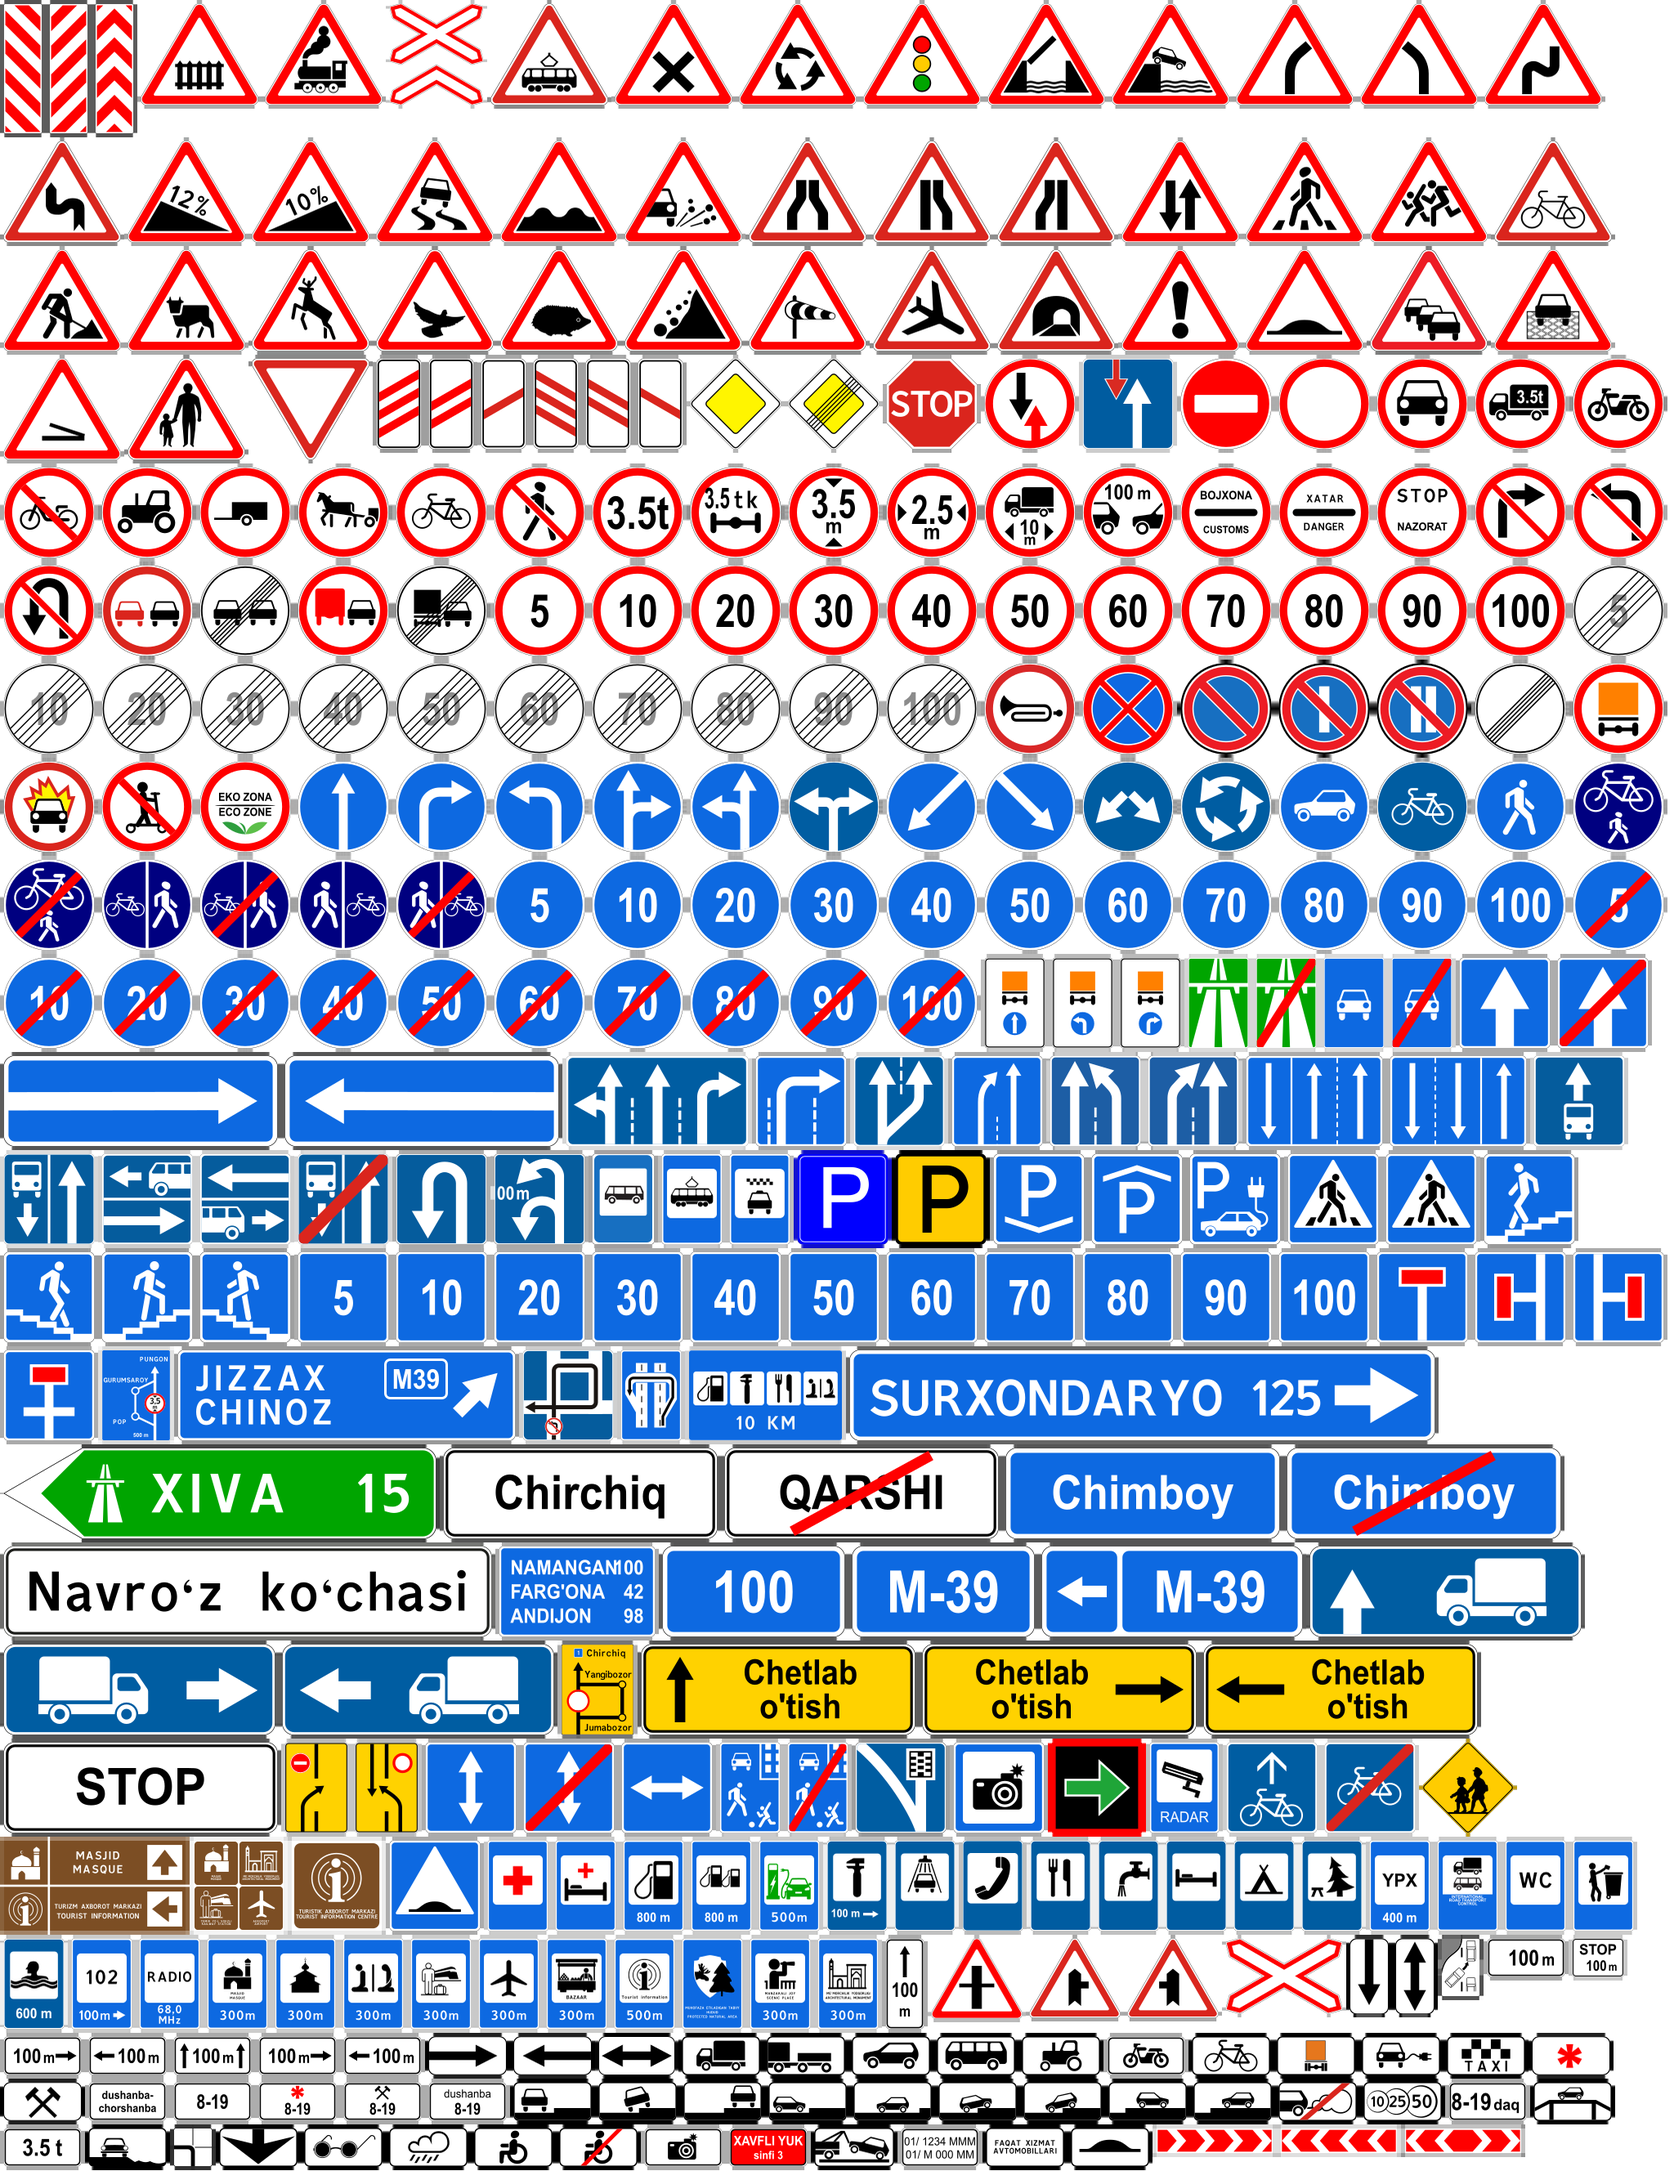
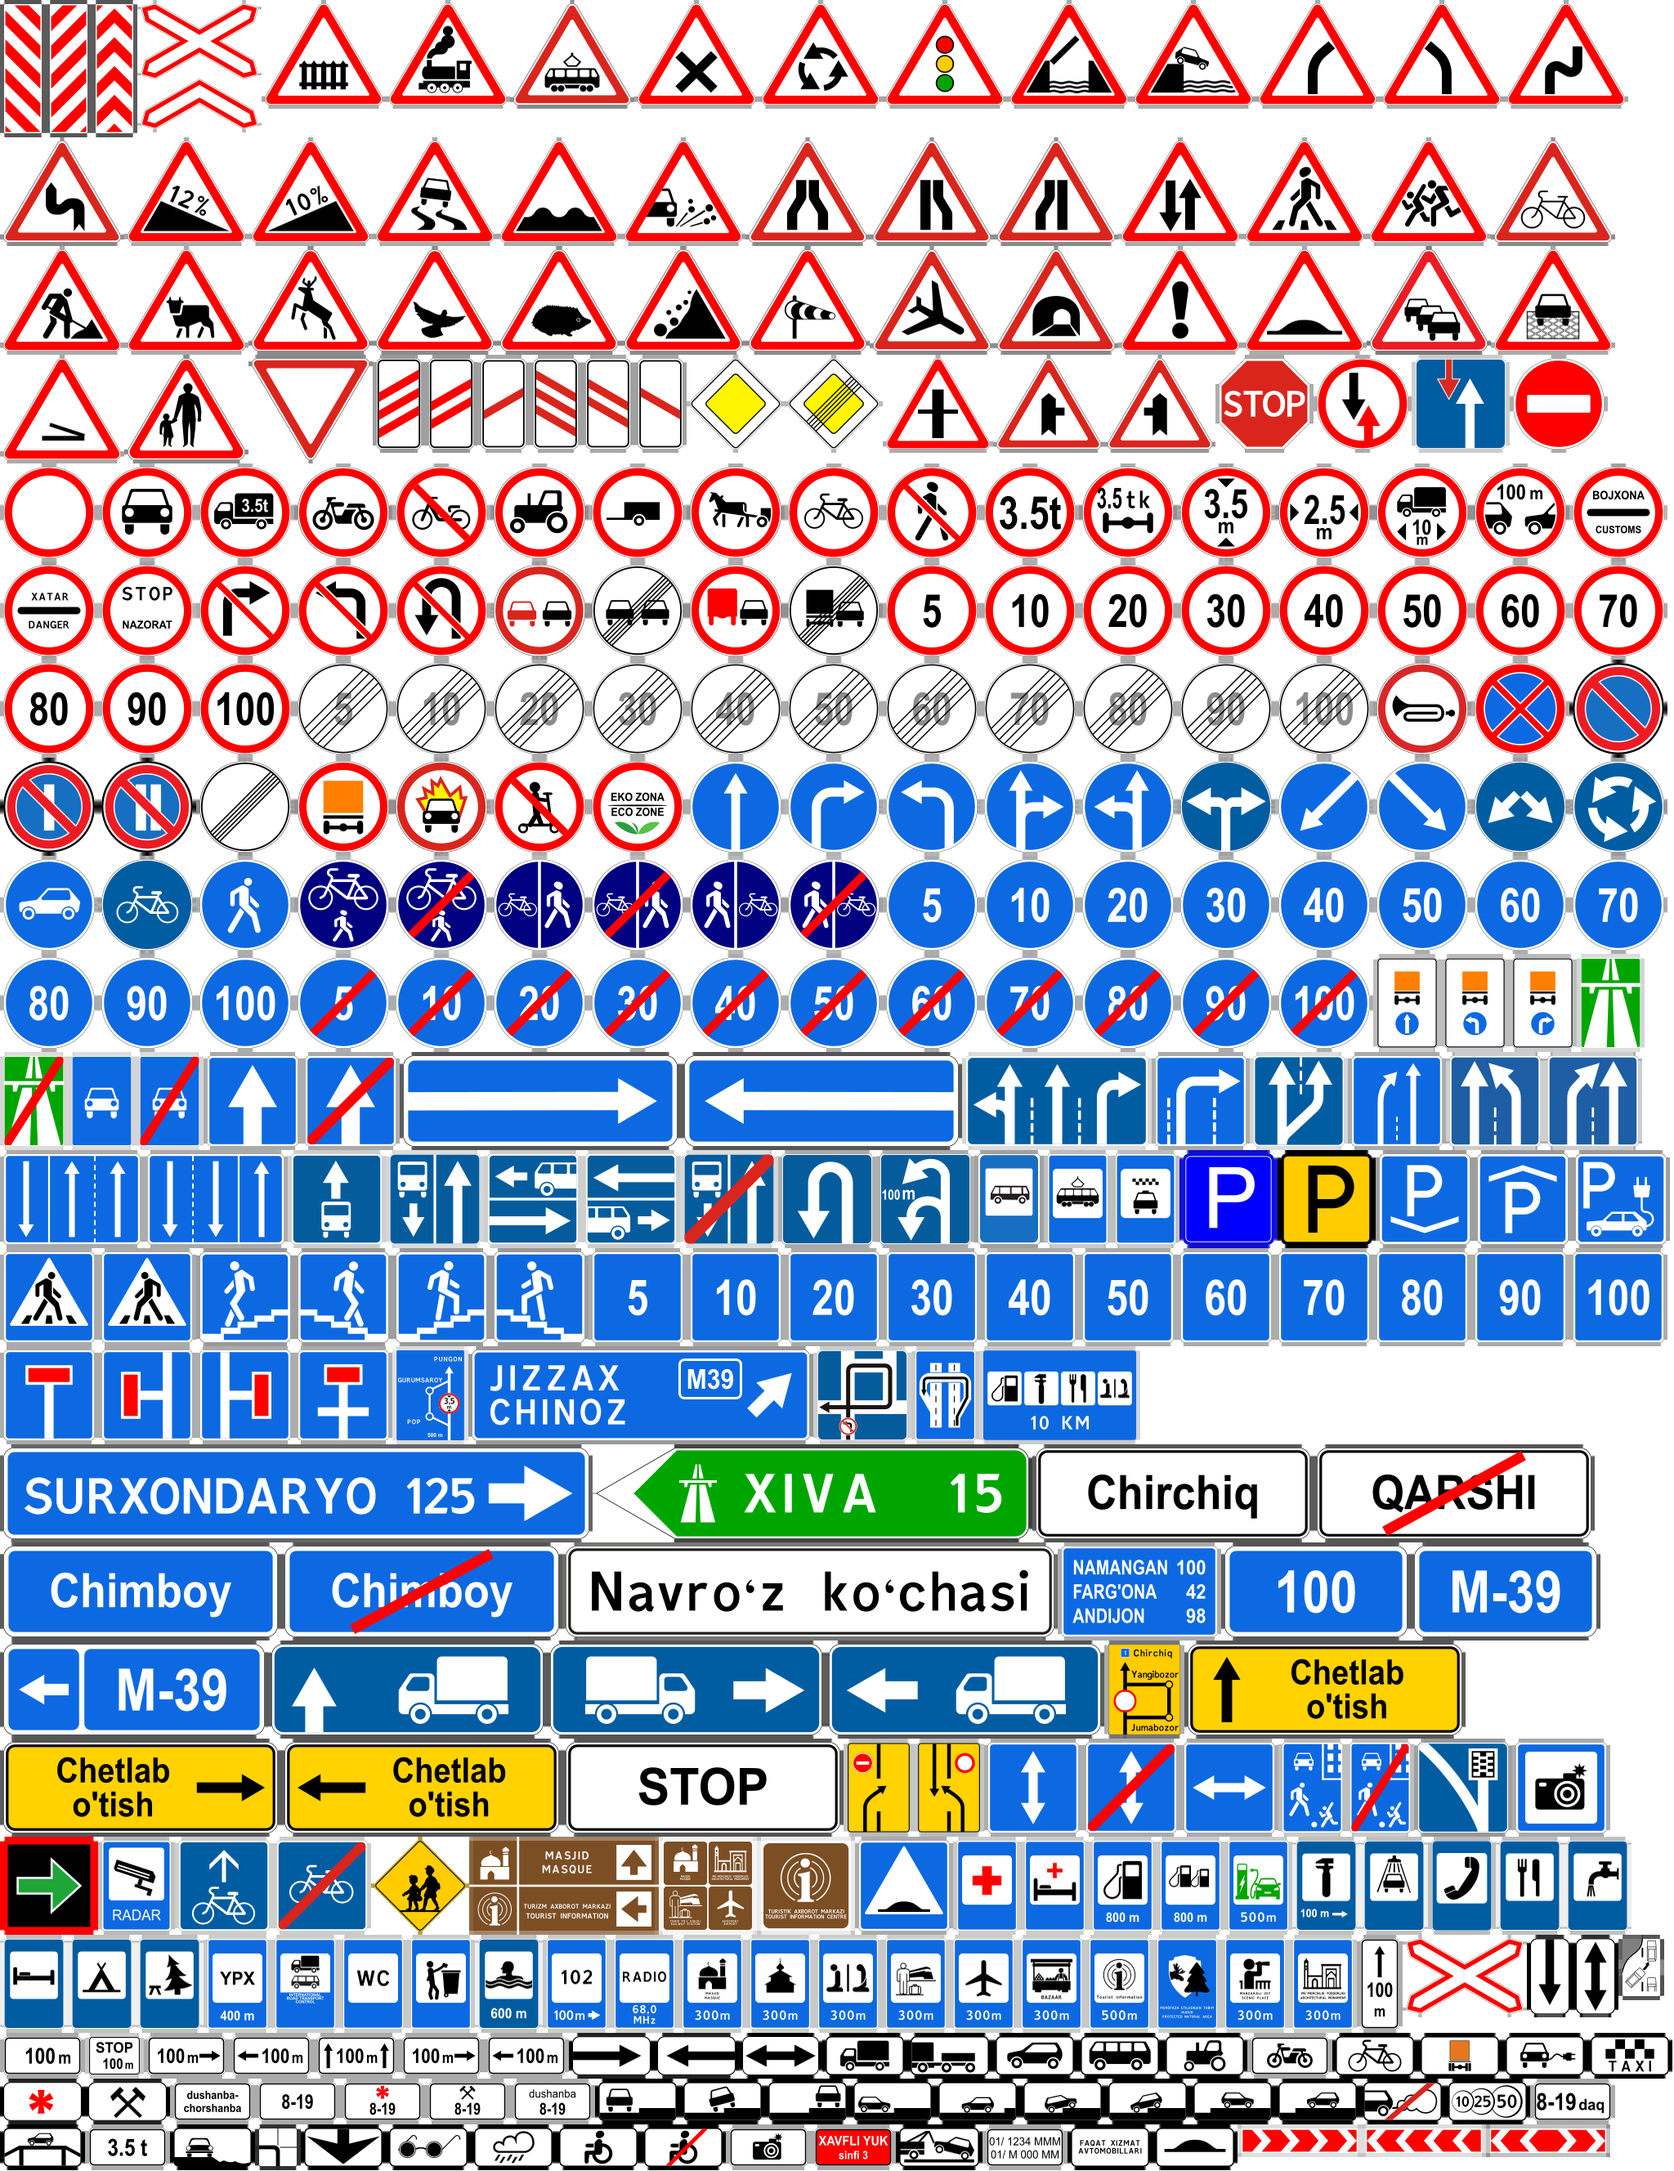
fix(signs): size 13 signs from their art, fit 3-digit values on 5.11.2 and 5.27, bleed colour into transparent atlas texels

diff --git a/tools/signs/atlas.ts b/tools/signs/atlas.ts
@@ -83,25 +83,16 @@ const xmlEscape = (s: string) => s.replace(/&/g, '&amp;').replace(/</g, '&lt;').
 
 interface Raster { data: Buffer; w: number; h: number }
 
-const sizes = new Map<string, [number, number]>();
-
-/** The catalogue size, or when the art's own proportions disagree with it by more than 5%, the largest size of the art's proportions that fits inside it. */
-export async function sizeOf(e: CatalogueEntry): Promise<[number, number]> {
-  const known = sizes.get(e.number);
-  if (known) return known;
+/** The catalogue size is the one source of sign size; art whose proportions disagree with it by more than 5% is an error. */
+async function sizeOf(e: CatalogueEntry): Promise<[number, number]> {
   const meta = await sharp(readFileSync(e.art!.file), { limitInputPixels: 1e8 }).metadata().catch((err: Error) => {
     throw new Error(`atlas: ${e.number} (${e.art!.file}): ${err.message}`);
   });
   if (!meta.width || !meta.height) throw new Error(`atlas: ${e.number} (${e.art!.file}): has no intrinsic size`);
-  const [cw, ch] = e.size;
-  let size = e.size;
-  if (Math.abs(meta.width / meta.height / (cw / ch) - 1) > 0.05) {
-    const k = Math.min(cw / meta.width, ch / meta.height);
-    size = [Math.round(meta.width * k * 1000) / 1000, Math.round(meta.height * k * 1000) / 1000];
-    console.warn(`atlas: ${e.number} art is ${meta.width}x${meta.height} but the catalogue size is ${cw}x${ch} m; using ${size.join('x')} m`);
+  if (Math.abs(meta.width / meta.height / (e.size[0] / e.size[1]) - 1) > 0.05) {
+    throw new Error(`atlas: ${e.number} art is ${meta.width}x${meta.height} but the catalogue size is ${e.size.join('x')} m`);
   }
-  sizes.set(e.number, size);
-  return size;
+  return e.size;
 }
 
 async function rasterise(e: CatalogueEntry, value: number | string | undefined, pxPerM: number): Promise<Raster> {
@@ -119,9 +110,38 @@ async function rasterise(e: CatalogueEntry, value: number | string | undefined, 
     if (!meta.width || !meta.height) throw new Error('has no intrinsic size');
     const density = Math.min(2400, Math.max(72, 72 * 2 * Math.max(w / meta.width, h / meta.height)));
     const data = await sharp(input, { density, limitInputPixels: 1e8 }).resize(w, h, { fit: 'fill' }).ensureAlpha().raw().toBuffer();
+    if (pxPerM === PX_PER_M) bleedTransparent(data, w, h);
     return { data, w, h };
   } catch (err) {
     throw new Error(`atlas: ${e.number} (${file}): ${(err as Error).message}`);
+  }
+}
+
+/** Gives fully transparent texels the colour of their nearest opaque neighbours, so filtering and mips do not pull in black. Alpha stays 0. */
+export function bleedTransparent(data: Buffer, w: number, h: number, passes = 8): void {
+  const filled = new Uint8Array(w * h);
+  for (let i = 0; i < w * h; i++) filled[i] = data[i * 4 + 3] > 0 ? 1 : 0;
+  for (let pass = 0; pass < passes; pass++) {
+    const next = filled.slice();
+    for (let y = 0; y < h; y++) {
+      for (let x = 0; x < w; x++) {
+        if (filled[y * w + x]) continue;
+        let r = 0, g = 0, b = 0, n = 0;
+        for (let dy = -1; dy <= 1; dy++) {
+          for (let dx = -1; dx <= 1; dx++) {
+            const nx = x + dx, ny = y + dy;
+            if (nx < 0 || ny < 0 || nx >= w || ny >= h || !filled[ny * w + nx]) continue;
+            const o = (ny * w + nx) * 4;
+            r += data[o]; g += data[o + 1]; b += data[o + 2]; n++;
+          }
+        }
+        if (!n) continue;
+        const o = (y * w + x) * 4;
+        data[o] = Math.round(r / n); data[o + 1] = Math.round(g / n); data[o + 2] = Math.round(b / n);
+        next[y * w + x] = 1;
+      }
+    }
+    filled.set(next);
   }
 }
 
@@ -219,13 +239,11 @@ export async function buildAtlas(): Promise<void> {
   const catalogue = loadCatalogue();
   const used = valuesUsedBy(districtSigns());
   const cells: { key: string; e: CatalogueEntry; value: number | string | undefined }[] = [];
-  const sizeOfCell = new Map<string, [number, number]>();
   for (const e of catalogue.filter(x => x.art)) for (const v of variantsOf(e, used)) cells.push({ key: v.key, e, value: v.value });
 
   const rasters = new Map<string, Raster>();
   for (const c of cells) {
     rasters.set(c.key, await rasterise(c.e, c.value, PX_PER_M));
-    sizeOfCell.set(c.key, await sizeOf(c.e));
   }
   const items = cells.map(c => ({ key: c.key, px: [rasters.get(c.key)!.w, rasters.get(c.key)!.h] as [number, number] }));
   const { width, height, at } = chooseSheet(items);
@@ -240,7 +258,7 @@ export async function buildAtlas(): Promise<void> {
     for (let row = 0; row < p.h; row++) {
       p.data.copy(sheet, ((y - PAD + row) * width + (x - PAD)) * 4, row * p.w * 4, (row + 1) * p.w * 4);
     }
-    atlas.cells[c.key] = { u: round(x / width), v: round(1 - (y + r.h) / height), w: round(r.w / width), h: round(r.h / height), size: sizeOfCell.get(c.key)! };
+    atlas.cells[c.key] = { u: round(x / width), v: round(1 - (y + r.h) / height), w: round(r.w / width), h: round(r.h / height), size: c.e.size };
   }
   mkdirSync('public/signs', { recursive: true });
   await sharp(sheet, { raw: { width, height, channels: 4 } }).png({ compressionLevel: 9, palette: false }).toFile('public/signs/atlas.png');

diff --git a/tools/signs/atlas.test.ts b/tools/signs/atlas.test.ts
@@ -2,7 +2,8 @@ import { readFileSync, statSync } from 'node:fs';
 import { describe, expect, it } from 'vitest';
 import type { Sign } from '../../src/shared/district';
 import { loadCatalogue, plateKey } from '../../src/shared/signCatalogue';
-import { assertTextRenders, checkAtlasCovers, exemptSvg, packAtlas, SPEEDS, type Atlas } from './atlas';
+import sharp from 'sharp';
+import { assertTextRenders, bleedTransparent, checkAtlasCovers, exemptSvg, packAtlas, SPEEDS, type Atlas } from './atlas';
 
 const readAtlasJson = (): Atlas => JSON.parse(readFileSync('public/signs/atlas.json', 'utf8'));
 
@@ -83,6 +84,27 @@ describe('sheet helpers', () => {
   });
 });
 
+describe('bleedTransparent', () => {
+  it('gives a transparent texel the colour of the opaque one beside it and keeps alpha 0', () => {
+    const px = Buffer.from([214, 35, 30, 255, 0, 0, 0, 0, 0, 0, 0, 0]);
+    bleedTransparent(px, 3, 1, 2);
+    expect([...px.subarray(4, 8)]).toEqual([214, 35, 30, 0]);
+    expect([...px.subarray(8, 12)]).toEqual([214, 35, 30, 0]);
+  });
+});
+
+describe('a red ring on a transparent ground', () => {
+  it('leaves no black texels beside the ring once bled', async () => {
+    const svg = '<svg xmlns="http://www.w3.org/2000/svg" width="60" height="60"><circle cx="30" cy="30" r="24" fill="none" stroke="#d6231e" stroke-width="8"/></svg>';
+    const { data } = await sharp(Buffer.from(svg)).ensureAlpha().raw().toBuffer({ resolveWithObject: true });
+    bleedTransparent(data, 60, 60);
+    const o = (10 * 60 + 2) * 4;
+    expect(data[o + 3]).toBe(0);
+    expect(data[o]).toBeGreaterThan(150);
+    expect(data[o + 1] + data[o + 2]).toBeLessThan(150);
+  });
+});
+
 describe('the built atlas', () => {
   it('fits the budgets', () => {
     const a = readAtlasJson();
@@ -101,12 +123,36 @@ describe('the built atlas', () => {
       for (const k of keys) {
         const c = a.cells[k];
         expect(c, k).toBeDefined();
-        expect(c.size[0], k).toBeLessThanOrEqual(e.size[0] + 1e-9);
-        expect(c.size[1], k).toBeLessThanOrEqual(e.size[1] + 1e-9);
+        expect(Math.abs(c.size[0] - e.size[0]), k).toBeLessThan(0.01);
+        expect(Math.abs(c.size[1] - e.size[1]), k).toBeLessThan(0.01);
         expect((c.w * a.width) / (c.h * a.height) / (c.size[0] / c.size[1]), k).toBeCloseTo(1, 1);
         expect(c.u >= 0 && c.v >= 0 && c.u + c.w <= 1 && c.v + c.h <= 1, k).toBe(true);
       }
     }
+  });
+
+  it('leaves no black texels beside the ring edge of 3.1', async () => {
+    const a = readAtlasJson();
+    const c = a.cells['3.1'];
+    const { data, info } = await sharp('public/signs/atlas.png').raw().toBuffer({ resolveWithObject: true });
+    const x0 = Math.round(c.u * a.width), y0 = Math.round((1 - c.v - c.h) * a.height);
+    const w = Math.round(c.w * a.width), h = Math.round(c.h * a.height);
+    const px = (x: number, y: number) => (y * info.width + x) * 4;
+    let checked = 0;
+    for (let y = y0 + 1; y < y0 + h - 1; y++) {
+      for (let x = x0 + 1; x < x0 + w - 1; x++) {
+        const o = px(x, y);
+        if (data[o + 3] !== 0) continue;
+        const nearRed = [[1, 0], [-1, 0], [0, 1], [0, -1]].some(([dx, dy]) => {
+          const n = px(x + dx, y + dy);
+          return data[n + 3] > 200 && data[n] + data[n + 1] + data[n + 2] > 150;
+        });
+        if (!nearRed) continue;
+        checked++;
+        expect(data[o] + data[o + 1] + data[o + 2], `texel ${x},${y}`).toBeGreaterThan(0);
+      }
+    }
+    expect(checked).toBeGreaterThan(20);
   });
 
   it('covers every sign in every district', () => {
